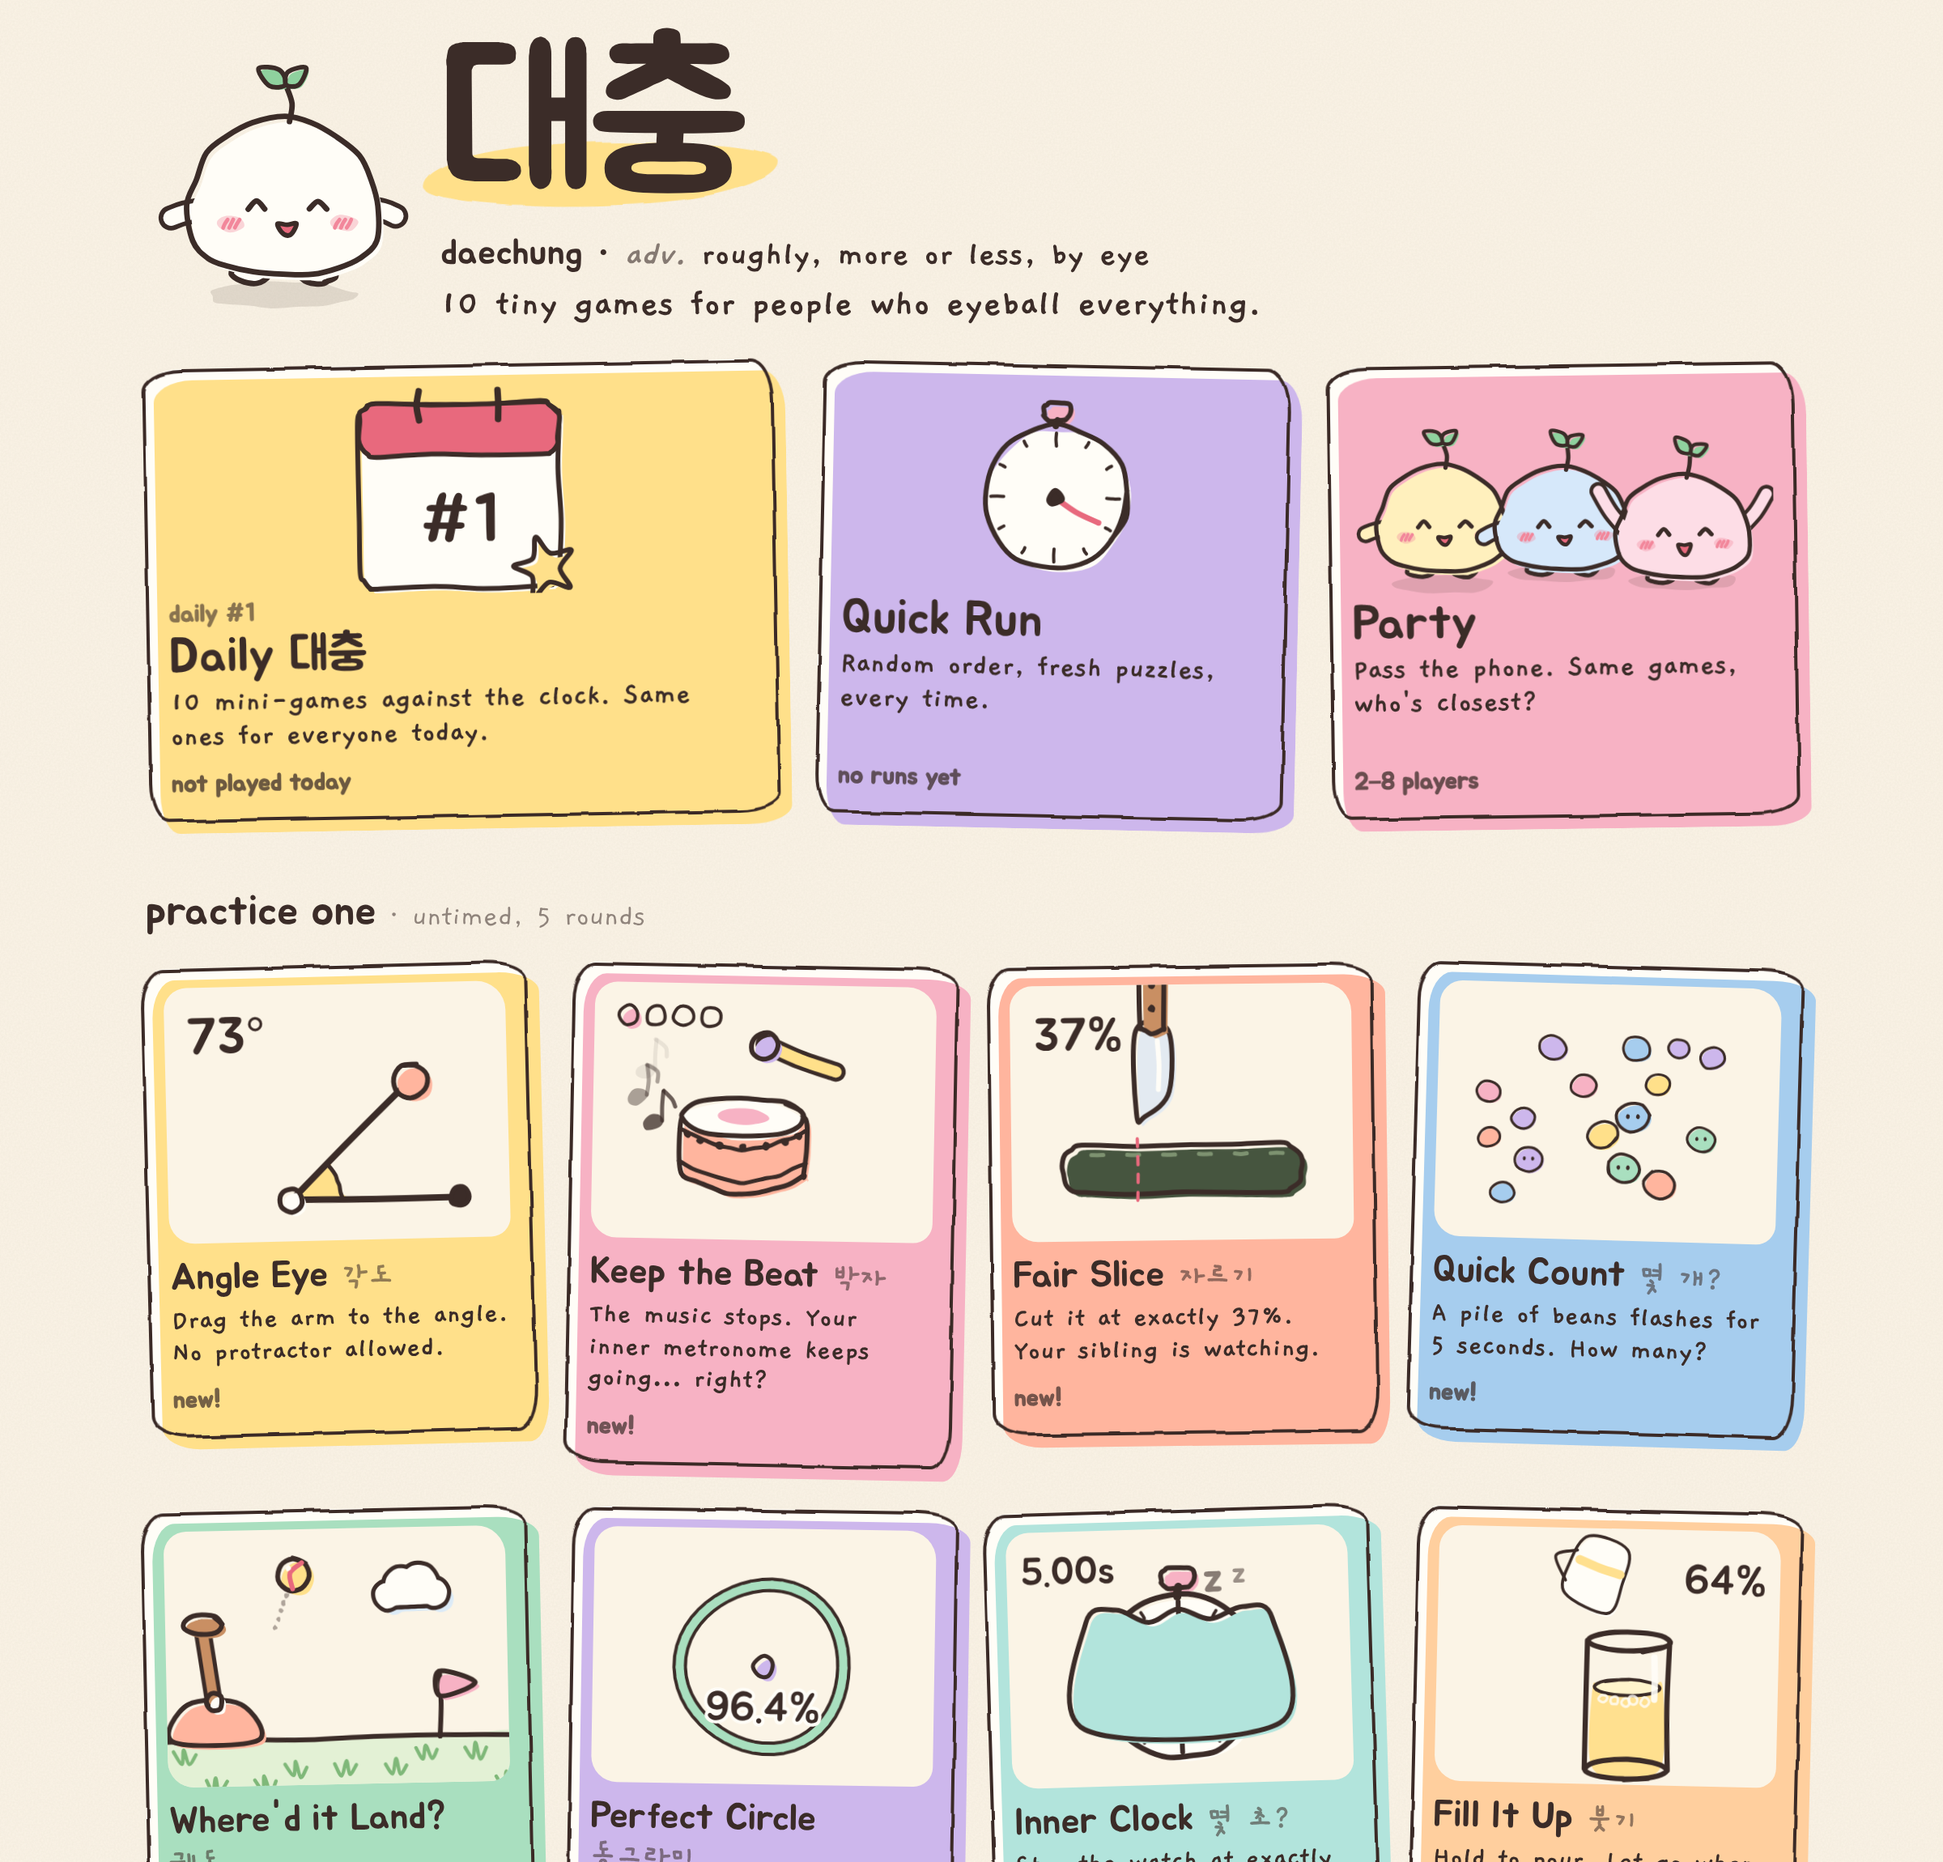
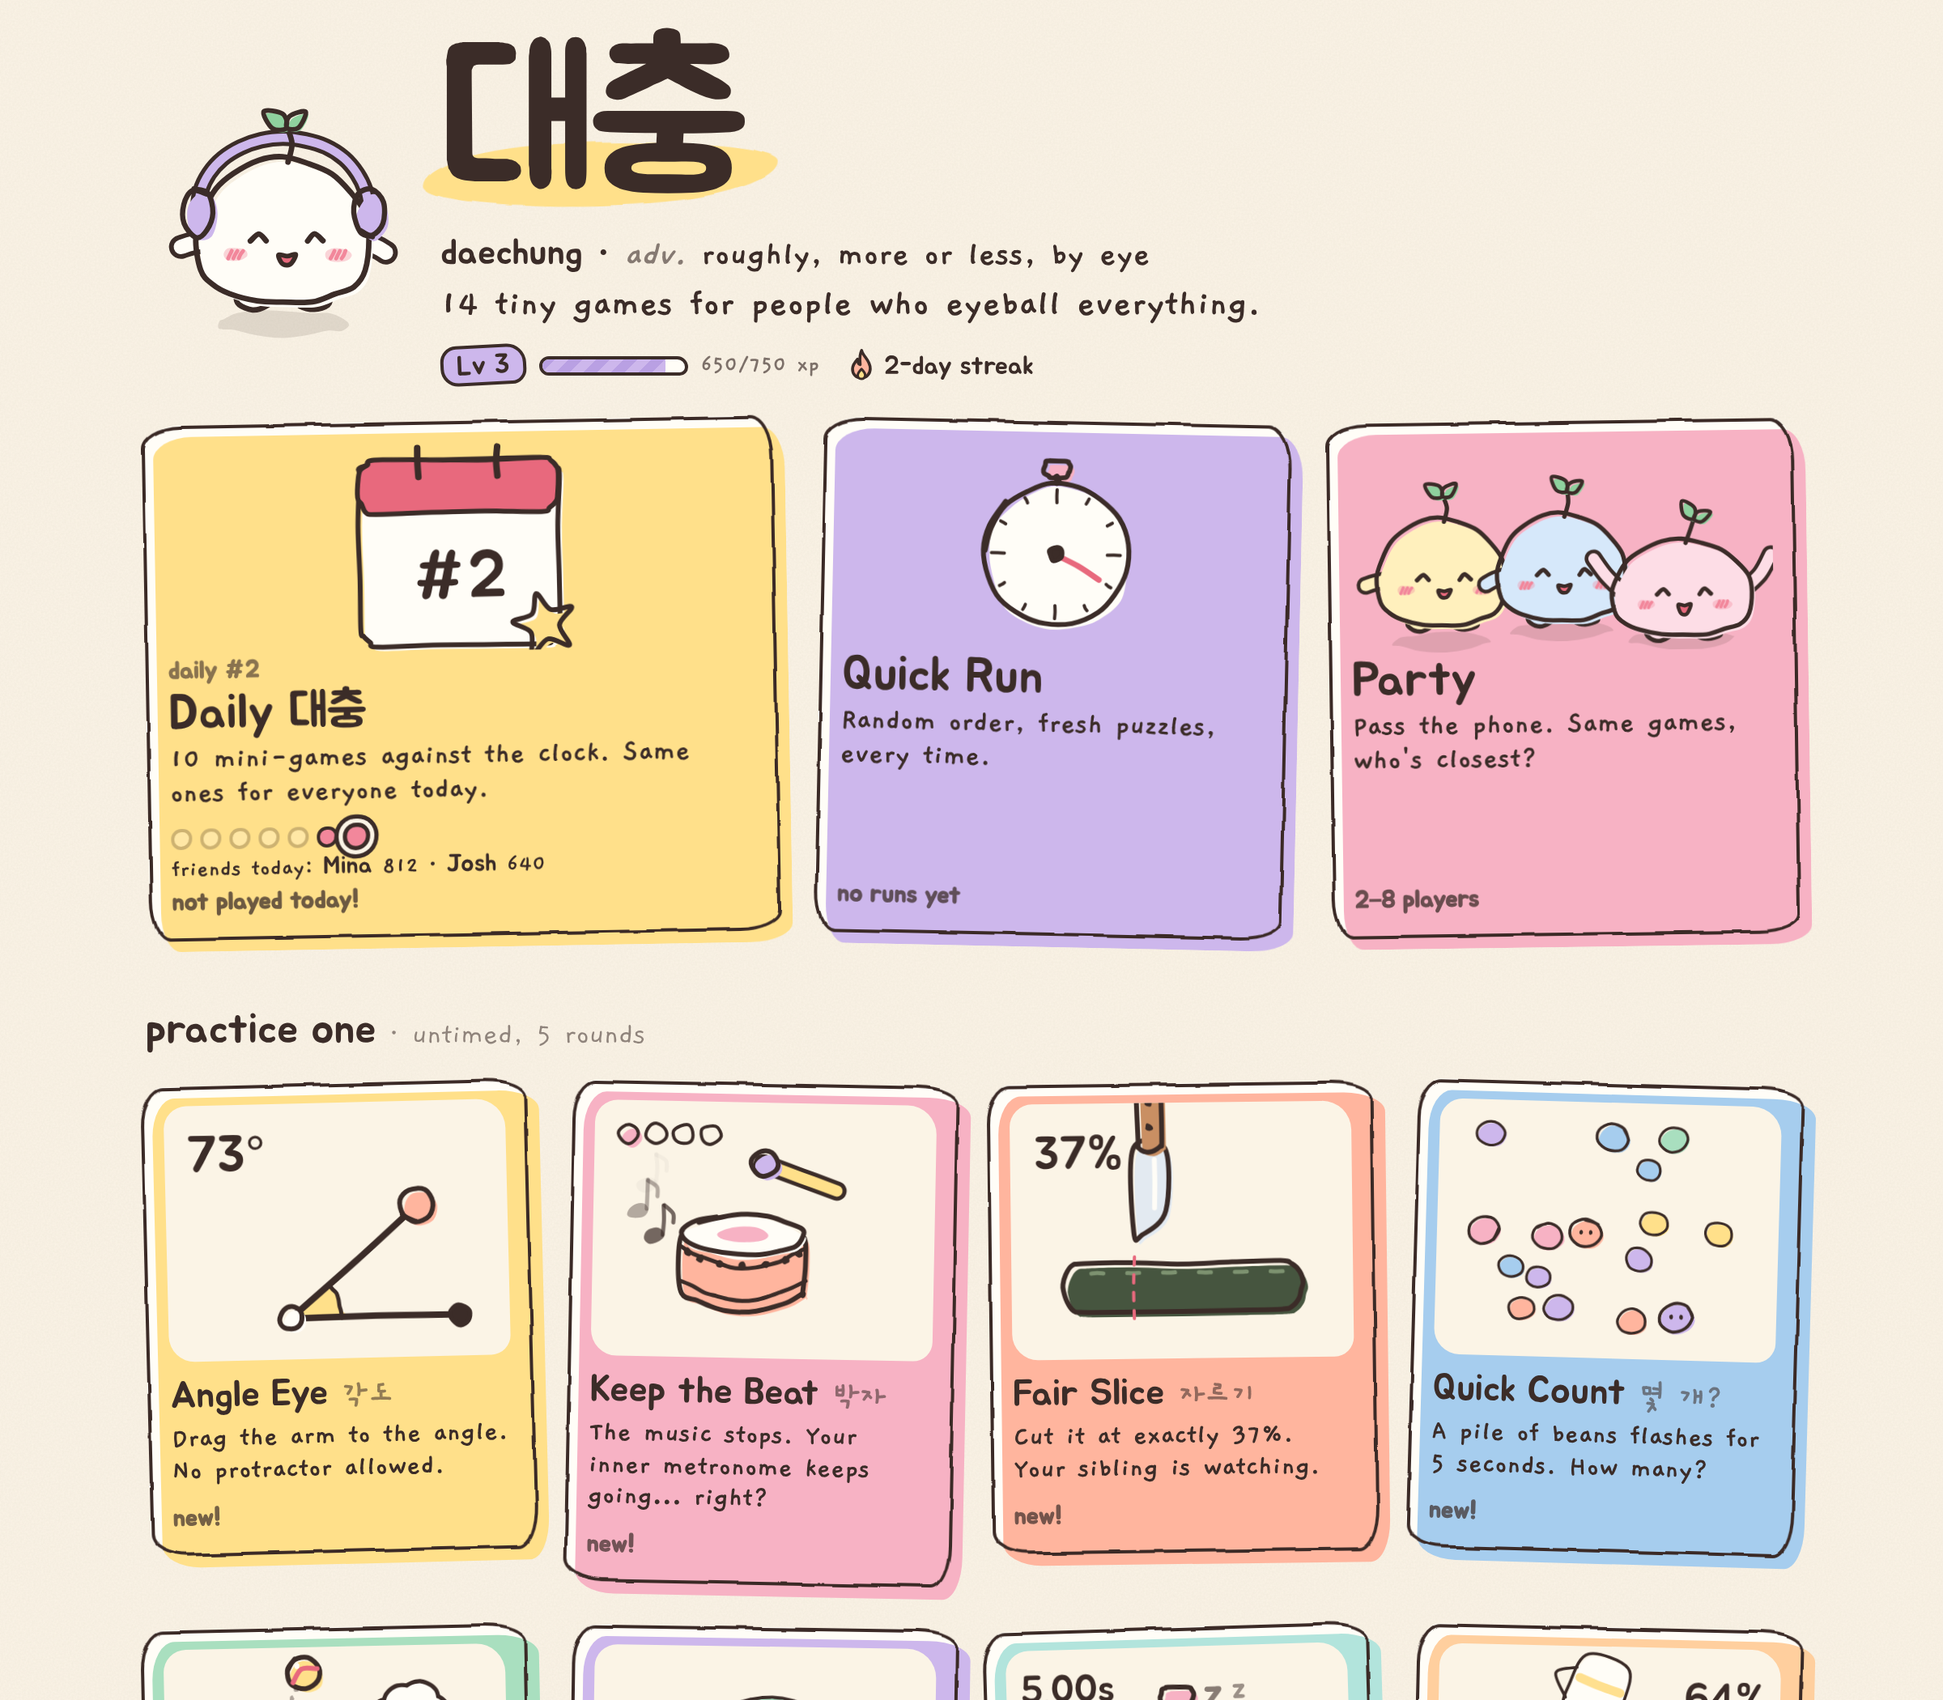
Refresh README screenshots: new home and all 14 games
Claude-Session: https://claude.ai/code/session_015fiSMEnFk6qN5yCajypTzR

diff --git a/README.md b/README.md
@@ -8,7 +8,7 @@ Fourteen tiny hand-drawn mini-games that test how good your eyeball is, hosted b
 
 ![home screen](docs/preview-home.png)
 
-![the five games on a phone](docs/preview-games.png)
+![all 14 mini-games mid-round on a phone](docs/preview-games.png)
 
 ## Ways to play
 
